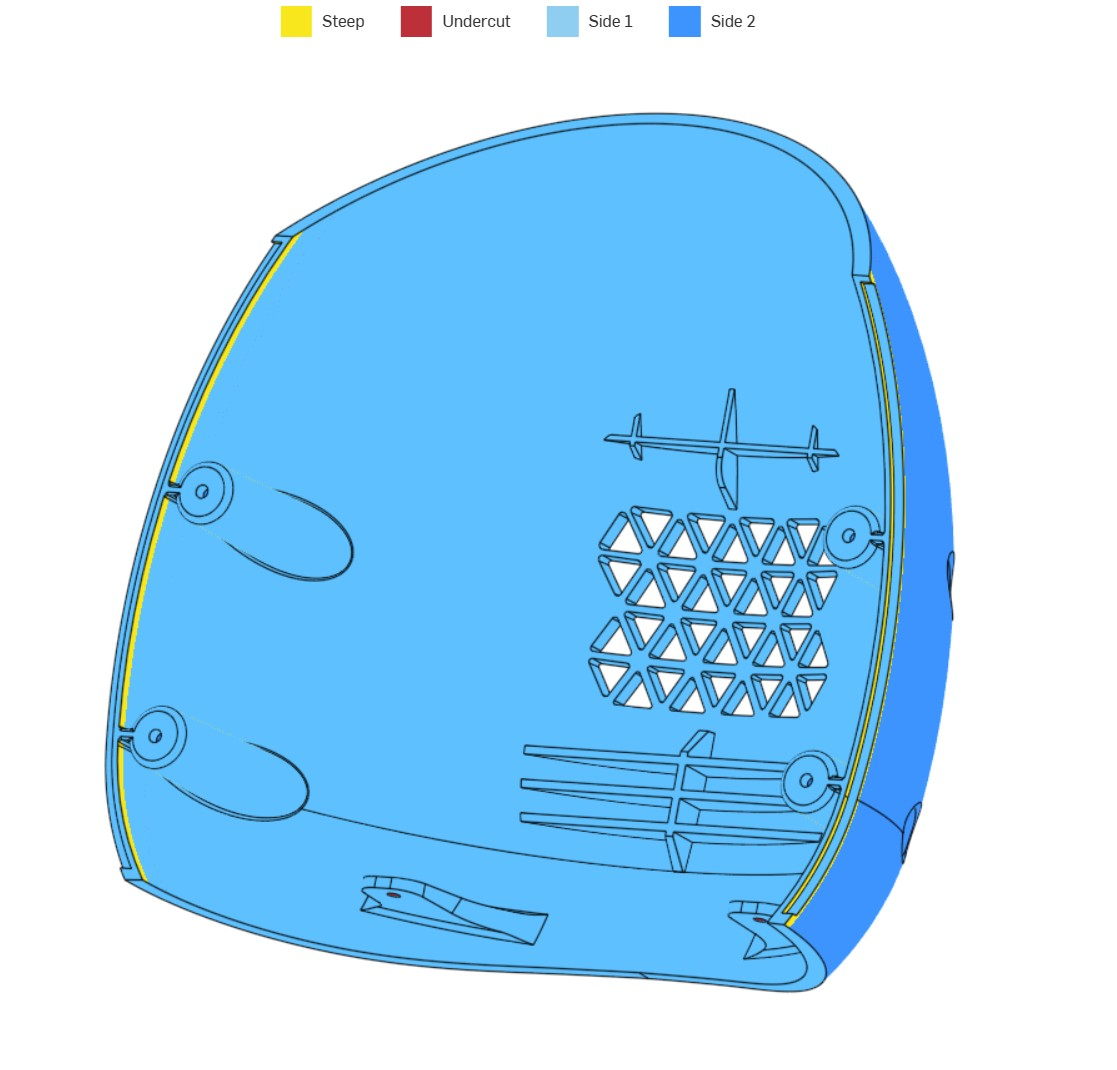
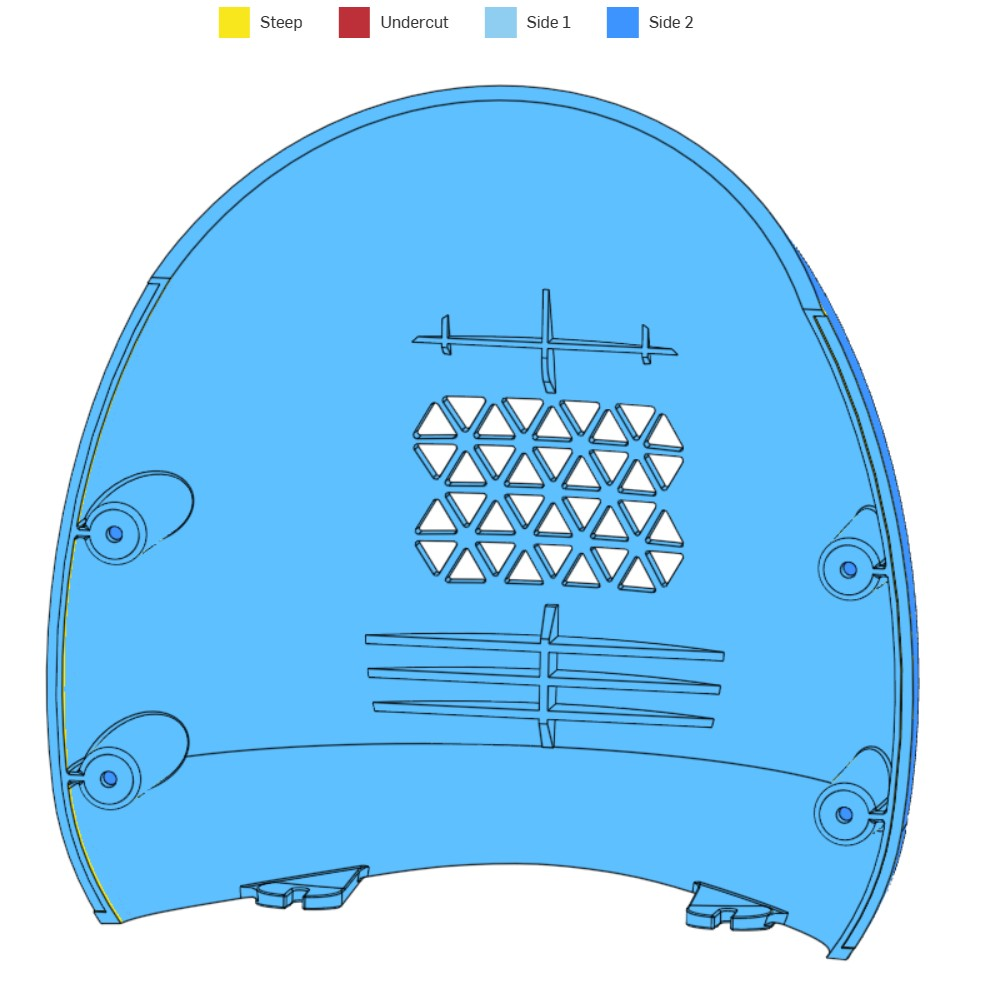
added mold flow video

diff --git a/src/components/ui/mediaCarousel/MediaCarousel.tsx b/src/components/ui/mediaCarousel/MediaCarousel.tsx
@@ -123,6 +123,33 @@ const MediaCarousel = (props) => {
                   //title={title}
                 />
               </React.Fragment>
+            ) : typeof slide.src === "string" && slide.src.endsWith(".mp4") ? (
+              <div
+                key={slide.src}
+                style={{
+                  display: "flex",
+                  alignItems: "center",
+                  justifyContent: "center",
+                  width: "100%",
+                  height: "100%",
+                }}
+              >
+                <video
+                  autoPlay
+                  loop
+                  muted
+                  controls
+                  style={{
+                    maxWidth: "100%",
+                    maxHeight: "100%",
+                    width: "auto",
+                    height: "auto",
+                  }}
+                >
+                  <source src={slide.src} type="video/mp4" />
+                  Your browser does not support the video tag.
+                </video>
+              </div>
             ) : undefined,
         }}
       />
@@ -194,6 +221,38 @@ const MediaCarousel = (props) => {
                   </Typography>
                 ))
               }
+            </React.Fragment>
+          ) : typeof mediaItem.src === "string" && mediaItem.src.endsWith(".mp4") ? (
+            <React.Fragment key={mediaItem.src}>
+              <div
+                className={`${
+                  projectTypeCarousel ? classes.imgContainer : ""
+                } `}
+              >
+                <video
+                  autoPlay
+                  loop
+                  muted
+                  className={`${
+                    projectTypeCarousel ? classes.carouselImage : ""
+                  } `}
+                  style={{ height: "100%", width: "auto" }}
+                >
+                  <source src={mediaItem.src} type="video/mp4" />
+                  Your browser does not support the video tag.
+                </video>
+              </div>
+              <Typography
+                variant="body1"
+                key={mediaItem.description}
+                className={`${
+                  projectTypeCarousel
+                    ? classes.description
+                    : classes.descriptionPage
+                } `}
+              >
+                {mediaItem.description}
+              </Typography>
             </React.Fragment>
           ) : (
             <React.Fragment key={mediaItem.src}>

diff --git a/src/data/homeProjectContent.tsx b/src/data/homeProjectContent.tsx
@@ -26,13 +26,26 @@ export const projectContent = [
       {
         description: "Exploded view showing sensor arrangement",
         src: require("../assets/AQS/AQS_exploded.jpg"),
-      },{
-        description: "Rear shell of sensor enclosure",
-        src: require("../assets/AQS/AQS_rear_shell.jpg"),
       },
       {
         description: "Draft angle analysis for injection molding",
         src: require("../assets/AQS/AQS_draft_analysis.jpg"),
+      },
+      {
+        description: "Mold flow analysis for injection molding",
+        src: require("../assets/AQS/AQS_MFA_1.jpg"),
+      },
+      {
+        description: "Mold flow fill time analysis",
+        src: require("../assets/AQS/AQS_MFA_4.jpg"),
+      },
+      {
+        description: "Mold flow quality analysis showing potential sink areas",
+        src: require("../assets/AQS/AQS_MFA_3.jpg"),
+      },         
+      {
+        description: "Mold flow fill",
+        src: require("../assets/AQS/AQS_Fill.mp4"),
       },
     ],
     links: {